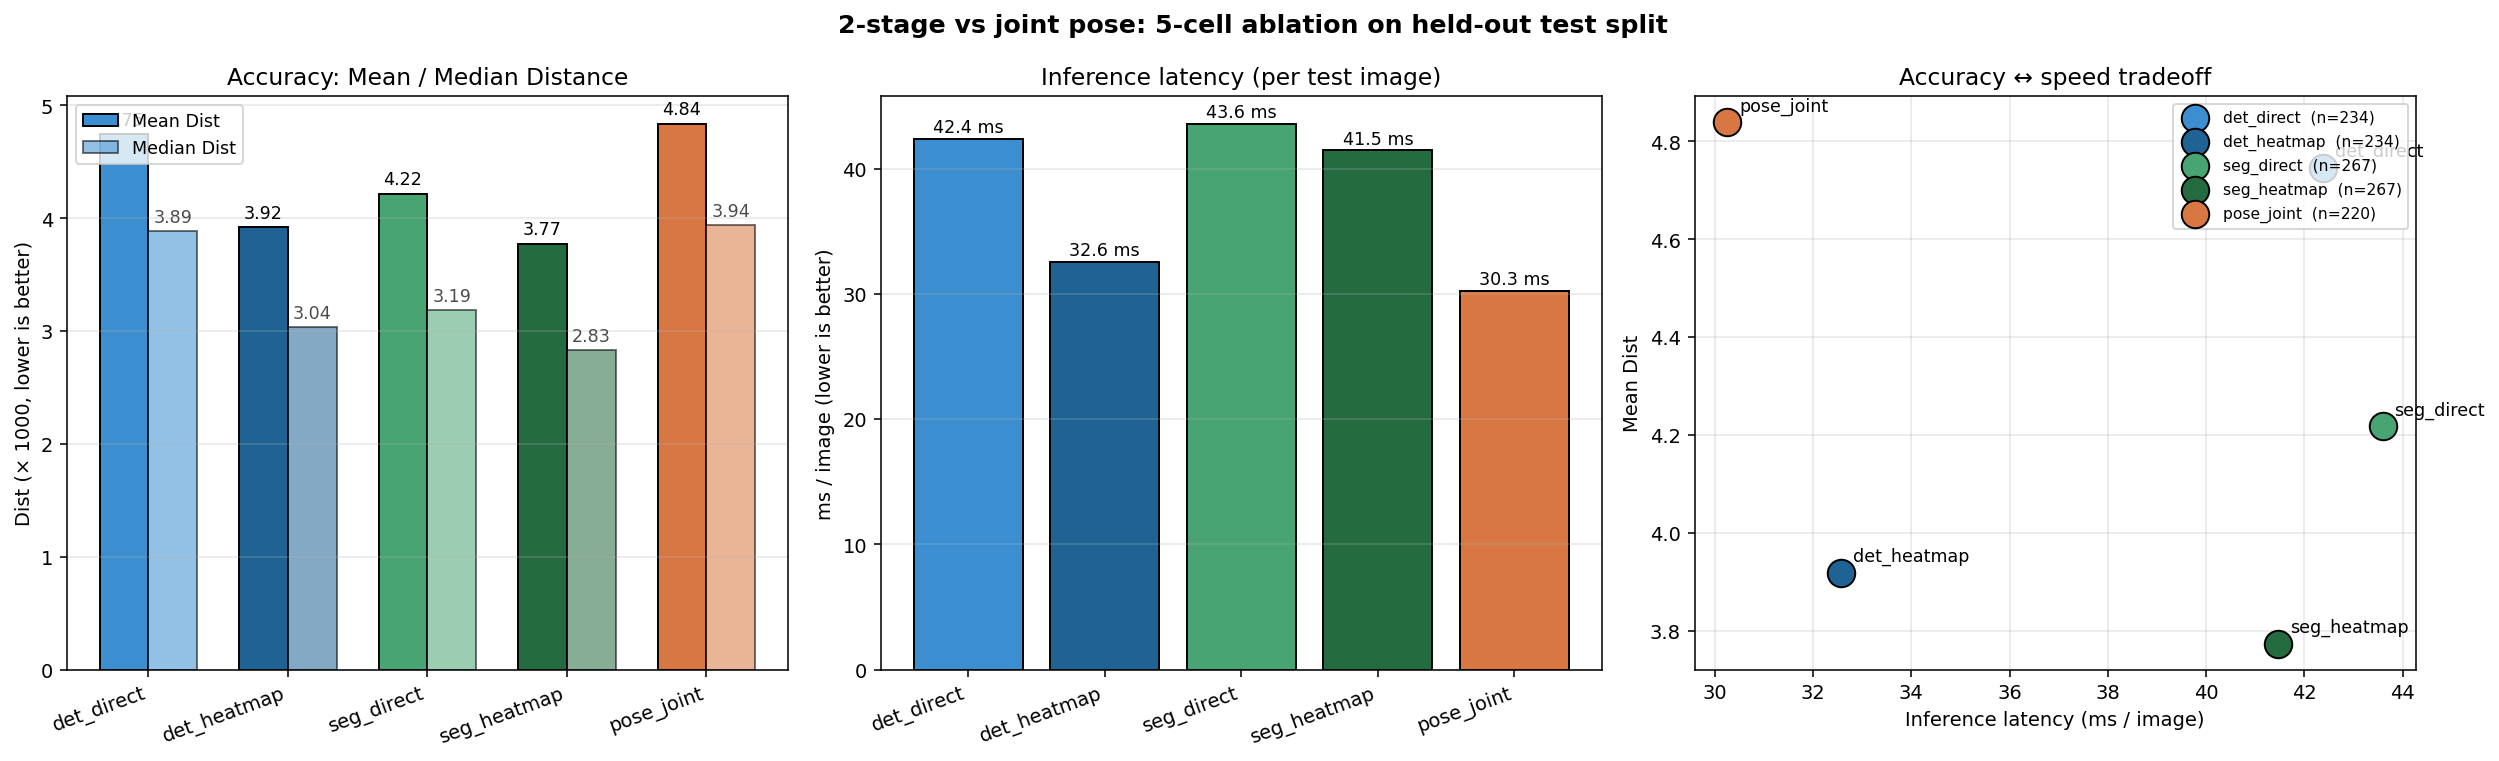
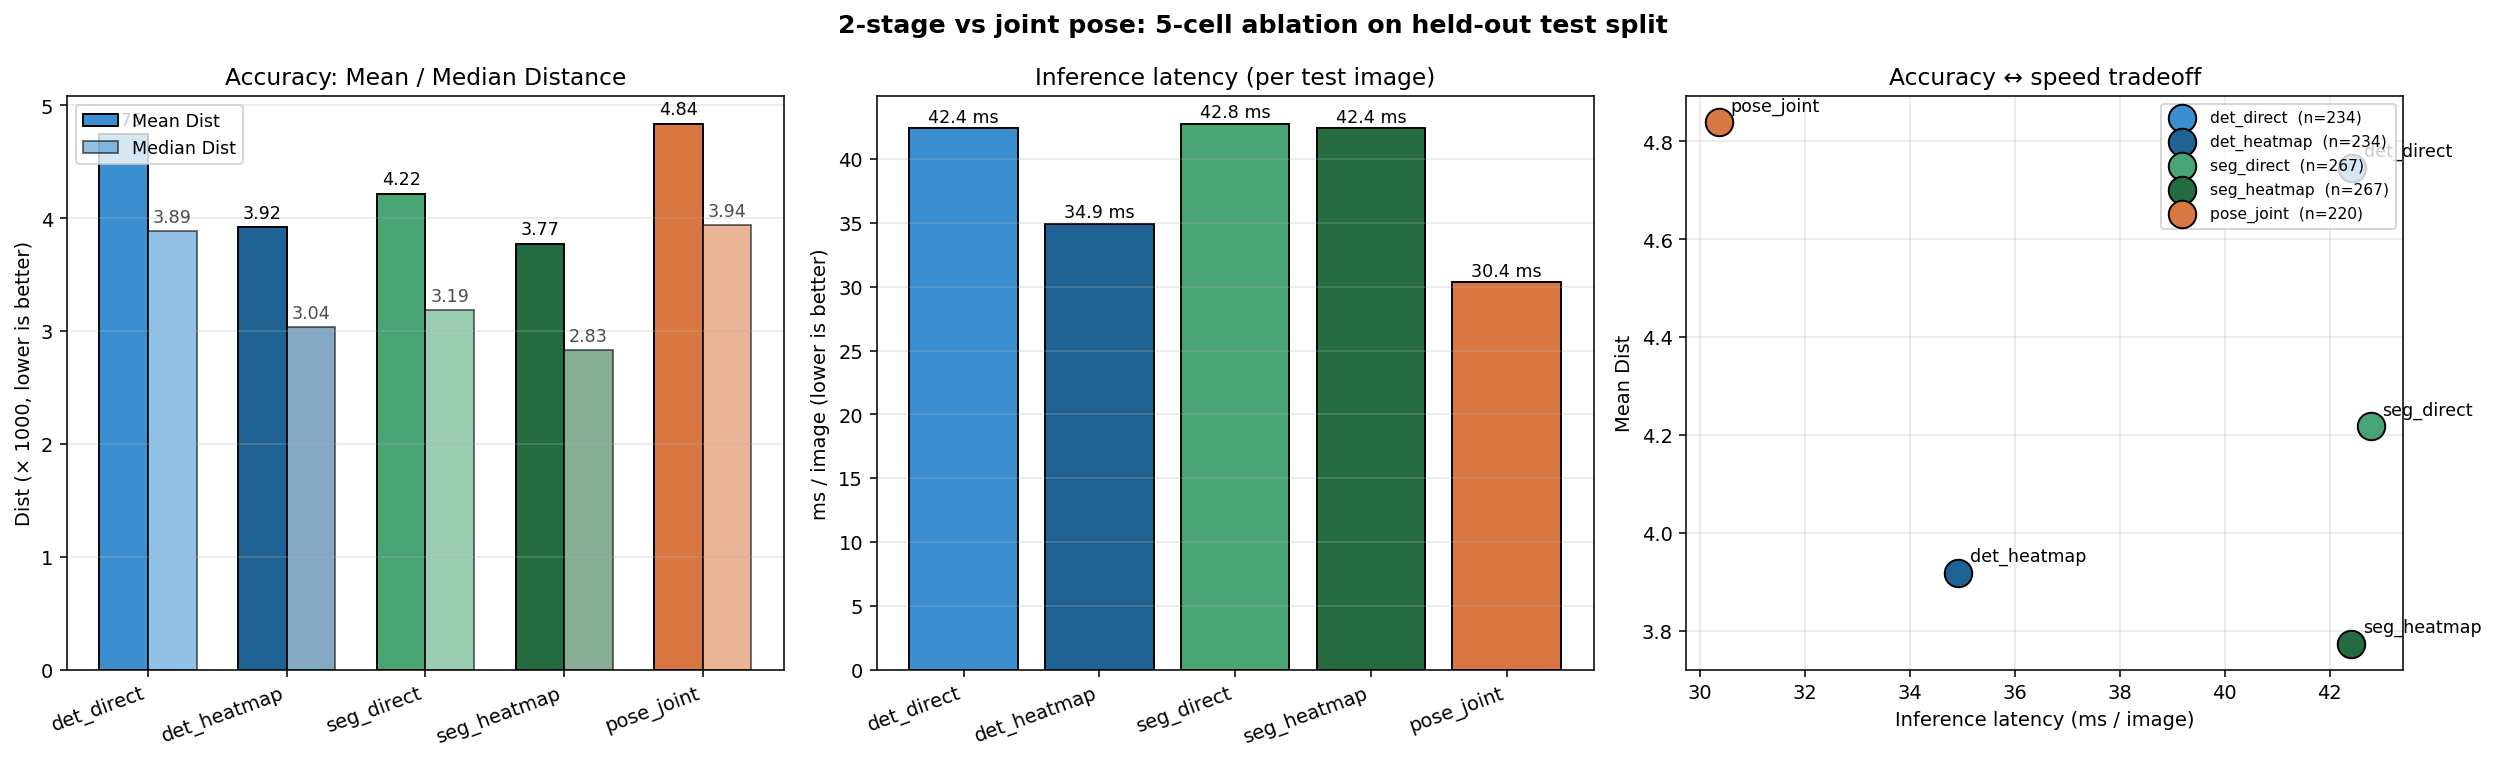
clean comments

diff --git a/oxnard_pipeline/train_keypoint_v2.py b/oxnard_pipeline/train_keypoint_v2.py
@@ -3,8 +3,8 @@ Unified Phase-2 keypoint trainer.
 
 Supports two architectures and two crop styles via env vars:
   KP_ARCH=heatmap  (default)  — soft-argmax readout + U-Net skip connections,
-                                 SmoothL1 loss on (x, y) coordinates (matches the
-                                 paper-style architecture from softargmax_skip_sweep.py)
+                                 SmoothL1 loss on (x, y) coordinates (architecture
+                                 from scripts/softargmax_skip_sweep.py)
   KP_ARCH=direct              — global-pooled MLP -> (x, y), MSE on normalized coords
   KP_CROPS=masked  (default)  — datasets/oxnard_kp/      (background blacked out)
   KP_CROPS=raw                — datasets/oxnard_kp_raw/  (raw bbox content)
@@ -80,7 +80,7 @@ class HeatmapHead(nn.Module):
     """Soft-argmax + U-Net skip connections. Returns (x, y) in pixel space [0, TRAIN_SIZE-1].
 
     Mirrors MeristemSoftArgmaxSkip from scripts/softargmax_skip_noseg_sweep.py — the
-    paper-style architecture that beat plain regression on the original sweep.
+    architecture that beat plain regression on the original sweep.
     """
     def __init__(self, soft_res=SOFT_RES, train_size=TRAIN_SIZE):
         super().__init__()

diff --git a/oxnard_pipeline/03_eval.py b/oxnard_pipeline/03_eval.py
@@ -156,9 +156,9 @@ def main():
     print()
     print(f"Mean px error:    {px_err.mean():.2f}")
     print(f"Median px error:  {np.median(px_err):.2f}")
-    print(f"Mean Dist:   {norm.mean()*1000:.4f}     (paper: 2.4838)")
+    print(f"Mean Dist:   {norm.mean()*1000:.4f}")
     print(f"Median Dist: {np.median(norm)*1000:.4f}")
-    print(f"Paper raw MSE: {(norm**2).mean():.6f}")
+    print(f"Raw MSE:     {(norm**2).mean():.6f}")
     print("=" * 70)
 
 

diff --git a/oxnard_pipeline/compare_all.py b/oxnard_pipeline/compare_all.py
@@ -160,7 +160,7 @@ def score(all_pred, all_gt):
         'median_px': float(np.median(px)),
         'mean_dist': float(norm.mean() * 1000),
         'median_dist': float(np.median(norm) * 1000),
-        'paper_raw_mse': float((norm**2).mean()),
+        'raw_mse': float((norm**2).mean()),
     }
 
 
@@ -332,7 +332,7 @@ def plot_results(results, train_stats):
 
     fig, axes = plt.subplots(1, 3, figsize=(18, 5.5))
 
-    # Panel 1: accuracy (mean and median Dist), with paper reference line
+    # Panel 1: accuracy (mean and median Dist)
     ax = axes[0]
     x = np.arange(len(names))
     w = 0.35

diff --git a/Oxnard-Pigweed-1/README.md b/Oxnard-Pigweed-1/README.md
@@ -38,10 +38,10 @@ yolo segment train \
     model=yolov8m-seg.pt \
     data=Oxnard-Pigweed-1/data.yaml \
     epochs=145 imgsz=1280 batch=8 seed=0 \
-    project=results name=wsd_seg
+    project=results name=oxnard_pigweed_seg
 
 # After training, copy the best weights to the path the pipeline expects:
-cp results/wsd_seg/weights/best.pt best_pigweed_145.pt
+cp results/oxnard_pigweed_seg/weights/best.pt best_pigweed_145.pt
 ```
 
 ## Where this fits in the bigger picture

diff --git a/oxnard_pipeline/README.md b/oxnard_pipeline/README.md
@@ -118,7 +118,7 @@ Outputs:
 
 - Phase-1 predictions are matched to GT by IoU ≥ 0.30 against the GT bbox; unmatched detections are dropped (so a false-positive far from any plant doesn't pollute the mean).
 - For each kept prediction, the predicted stem is paired with the IoU-best GT stem.
-- `Dist` is the same formula as `calculate_mse` in the original paper's `test.py`: per-sample √(squared_px) divided by image diagonal in pixels, averaged, ×1000.
+- `Dist` = per-sample √(squared_px) divided by the image diagonal in pixels (1468.6 for 1280×720), averaged across kept predictions, ×1000. Lower is better.
 
 ## Architecture notes (why heatmap beats direct)
 